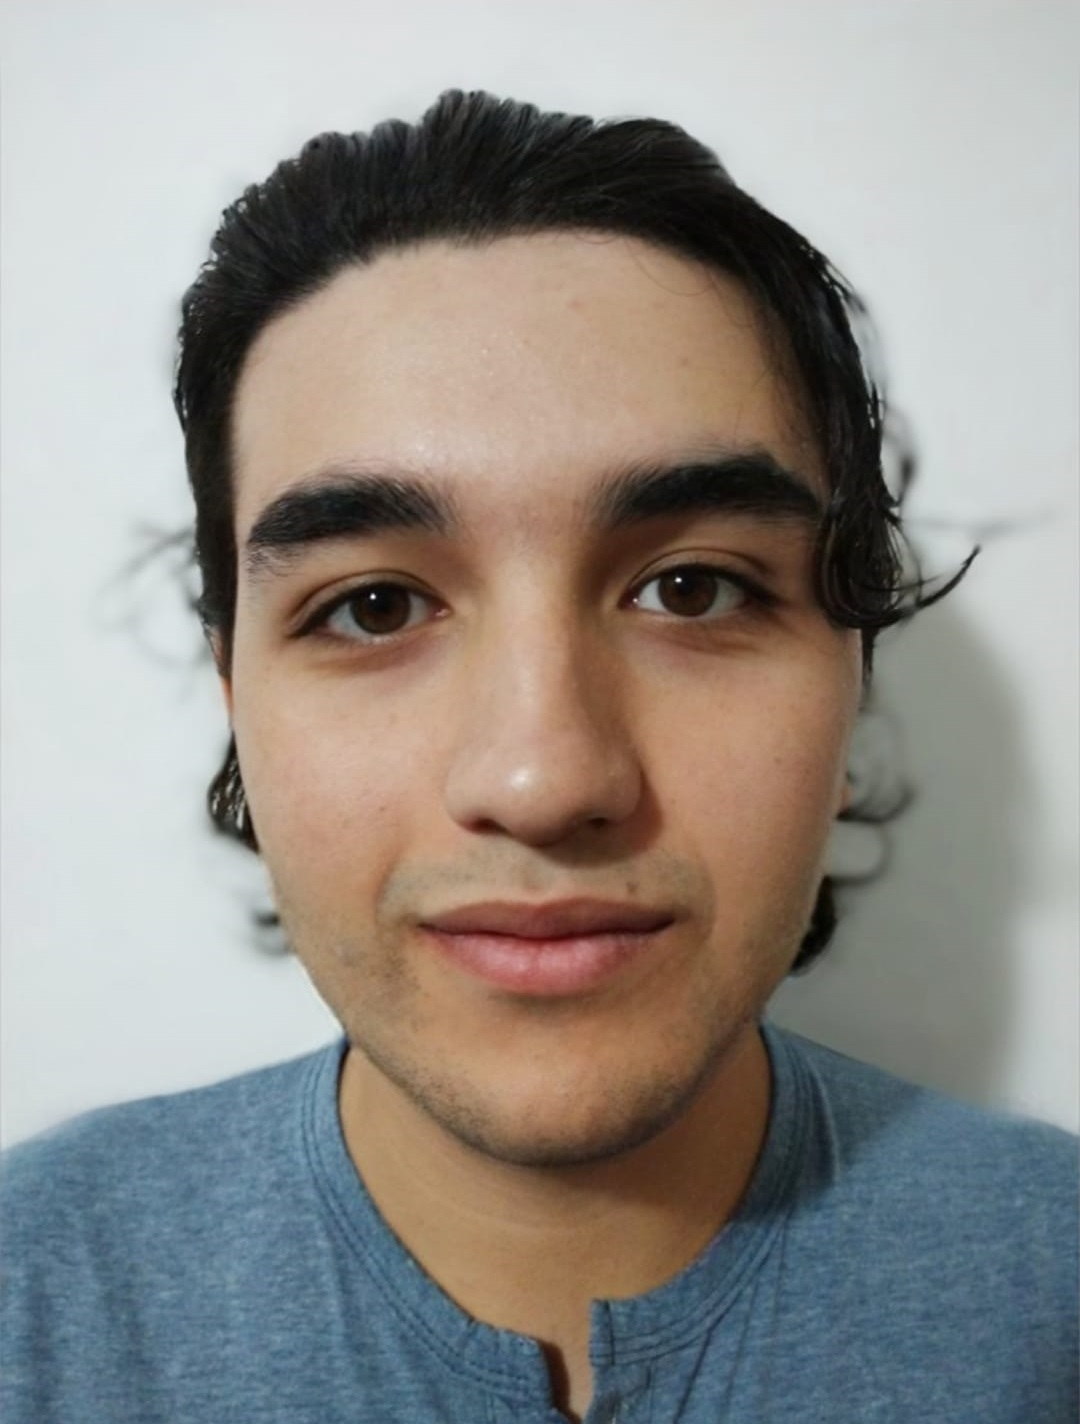
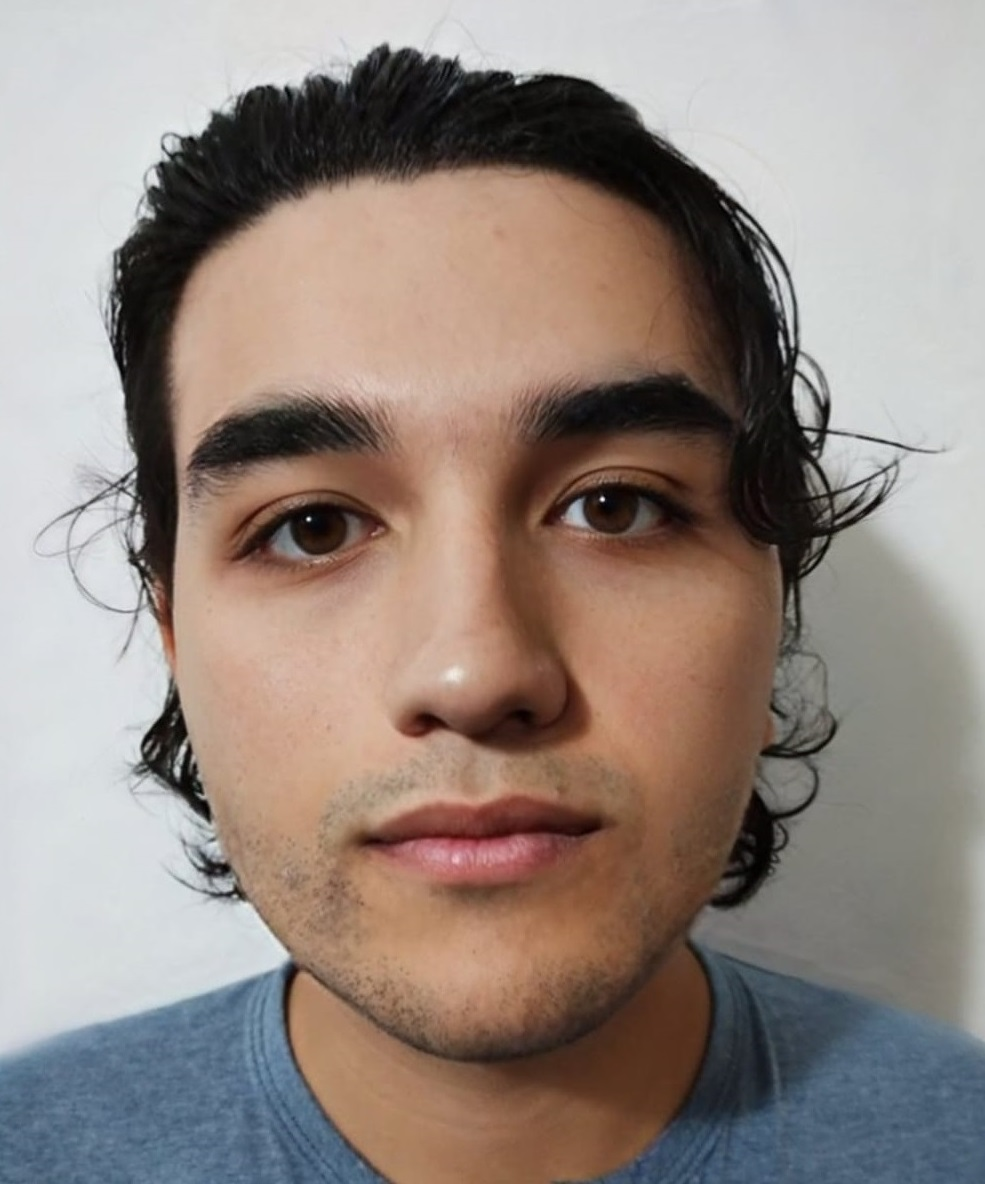
detalles front corregidos

diff --git a/css/index.css b/css/index.css
@@ -104,6 +104,7 @@ ul{
 .presentacion-contenido{
     display: flex;
     justify-content: space-around;
+    align-items: center;
     padding: 5rem;
 }
 
@@ -121,6 +122,7 @@ ul{
     opacity: 0;
     transition: .25s ease;
     transform: scale(3);
+    height: 550px;
 }
 
 .cv-btn{
@@ -130,10 +132,9 @@ ul{
     text-decoration: none;
     transition: .2s ease;
 }
-
 .cv-btn:hover{
     box-shadow: 0px 0px 10px black;
-    background-color: #270e50;
+    background-color: rgba(119, 64, 105, .7);
 }
 
 .avatar{
@@ -198,7 +199,7 @@ ul{
 
 .presentacion-descripcion{
     font-size:4rem;
-    
+    position: relative;
 }
 
 .sacar-relleno{
@@ -211,25 +212,6 @@ ul{
 .sacar-relleno:hover{
     color: white;
     -webkit-text-stroke: 0;
-}
-
-.alguito{
-    background-image: url("../assets/img/yo.jpg");
-    background-size: cover;
-    box-shadow: 0 0 10px black;
-    width: 150px;
-    position: absolute;
-    right: -100px;
-    top: 150px;
-    visibility: hidden;
-    transition:  .7s ease;
-    transform: rotate(-50deg) scaleX(0);
-    height: 200px;
-}
-
-.aparecer-alguito{
-    visibility: visible;
-    transform: rotate(0deg) scaleX(1);
 }
 
 /****/
@@ -431,5 +413,40 @@ footer{
 .redes i{
     font-size: 3rem;
     cursor: pointer;
+    transition: .3s ease-in-out;
+}
+
+.redes i:hover{
+    transform: translateY(-3px);
+}
+
+.linkedin:hover{
+    color: #0e76a8;
+}
+.github:hover{
+    color: black;
+}
+
+
+.globo-emoji {
+  position: absolute;
+  left: 0;
+  transform: translateX(-50%);
+  font-size: 20px;
+  opacity: 0;
+  pointer-events: none;
+  scale: 2;
+  animation: flotar 5s ease-out forwards;
+}
+
+@keyframes flotar {
+  0% {
+    transform: translateY(0) translateX(0) scale(1);
+    opacity: 1;
+  }
+  100% {
+    transform: translateY(-150px) translateX(var(--desvio-x)) scale(var(--escala));
+    opacity: 0;
+  }
 }
 

diff --git a/js/script.js b/js/script.js
@@ -1,13 +1,8 @@
 const buenaOnda = document.getElementById("buena-onda-txt");
-const alguito = document.querySelector(".alguito");
+
 const presentacionCard = document.getElementById("presentacion-card");
 const presentacionTexto = document.getElementById("presentacion-texto");
 const tituloPrincipal = document.querySelector(".bienvenido");
-
-buenaOnda.addEventListener("mouseenter", () => alguito.classList.add("aparecer-alguito"));
-buenaOnda.addEventListener("mouseleave", () => alguito.classList.remove("aparecer-alguito"));
-
-
 
 setInterval(() => {
     presentacionCard.classList.add("veni-a-mi");
@@ -17,3 +12,24 @@ setInterval(() => {
 setInterval(() => {
     presentacionTexto.classList.add("veni-a-mi");
 }, 1000);
+
+
+buenaOnda.addEventListener('mouseenter', () => {
+  for (let i = 0; i < 10; i++) {
+    const emoji = document.createElement('span');
+    emoji.className = 'globo-emoji';
+    emoji.innerHTML = '🎈';
+
+    emoji.style.left = `${Math.random() * 60}px`;
+
+    const desvioX = (Math.random() - 0.5) * 500 + 'px';
+    emoji.style.setProperty('--desvio-x', desvioX);
+
+    const escala = 0.8 + Math.random() * 0.6;
+    emoji.style.setProperty('--escala', escala);
+
+    buenaOnda.appendChild(emoji);
+
+    setTimeout(() => emoji.remove(), 5000);
+  }
+});

diff --git a/css/mobile.css b/css/mobile.css
@@ -47,6 +47,7 @@
     .presentacion-card{
         gap:1.5rem;
         width:90%;
+        height:100%;
         clip-path: polygon(0 0, 100% 0, 100% 85%, 0 100%);
         transition: .25s ease;
         clip-path:none;
@@ -172,17 +173,4 @@
         outline: none;
         border:3px solid black;
     }
-
-    .alguito{
-        display: none;
-        top: 50%;
-        left: 50%;
-        transform: translate(-50%, -50%);
-    }
-
-    .aparecer-alguito{
-        visibility: hidden;
-        transform: none;
-    }
-
 }

diff --git a/index.php b/index.php
@@ -37,8 +37,7 @@
                 </div>
                 <div class="presentacion-texto" id="presentacion-texto">
                     <h2 class="saludo"><span>🖐</span> Hola, soy Alan</h2>
-                    <p class="presentacion-descripcion">Me gusta crear experiencias web claras, funcionales y con <span class="sacar-relleno" id="buena-onda-txt">buena onda</span>.</p>
-                    <div class="alguito"></div>
+                    <p class="presentacion-descripcion">Me enfoco en la claridad, funcionalidad y <span class="sacar-relleno" id="buena-onda-txt">experiencia</span> de usuario.</p>
                 </div>
             </div>
         </section>
@@ -107,7 +106,7 @@
                     </p>
                 </div>
 
-                <img src="assets/img/cara-2.jpg" alt="">
+                <img src="assets/img/cara-2.jpeg" alt="">
             </div>
         </section>
         <section class="form-section">
@@ -131,10 +130,10 @@
         <p class="copyright" id="copyright">copy</p>
         <div class="redes">
             <a href="https://www.linkedin.com/in/alan-pisani/" target="_blank">
-                <i class="fa fa-linkedin-square" aria-hidden="true"></i>
+                <i class="fa fa-linkedin-square linkedin" aria-hidden="true"></i>
             </a>
             <a href="https://github.com/alanpisani" target="_blank">
-                <i class="fa fa-github-square" aria-hidden="true"></i>
+                <i class="fa fa-github-square github" aria-hidden="true"></i>
             </a>
             
         </div>
